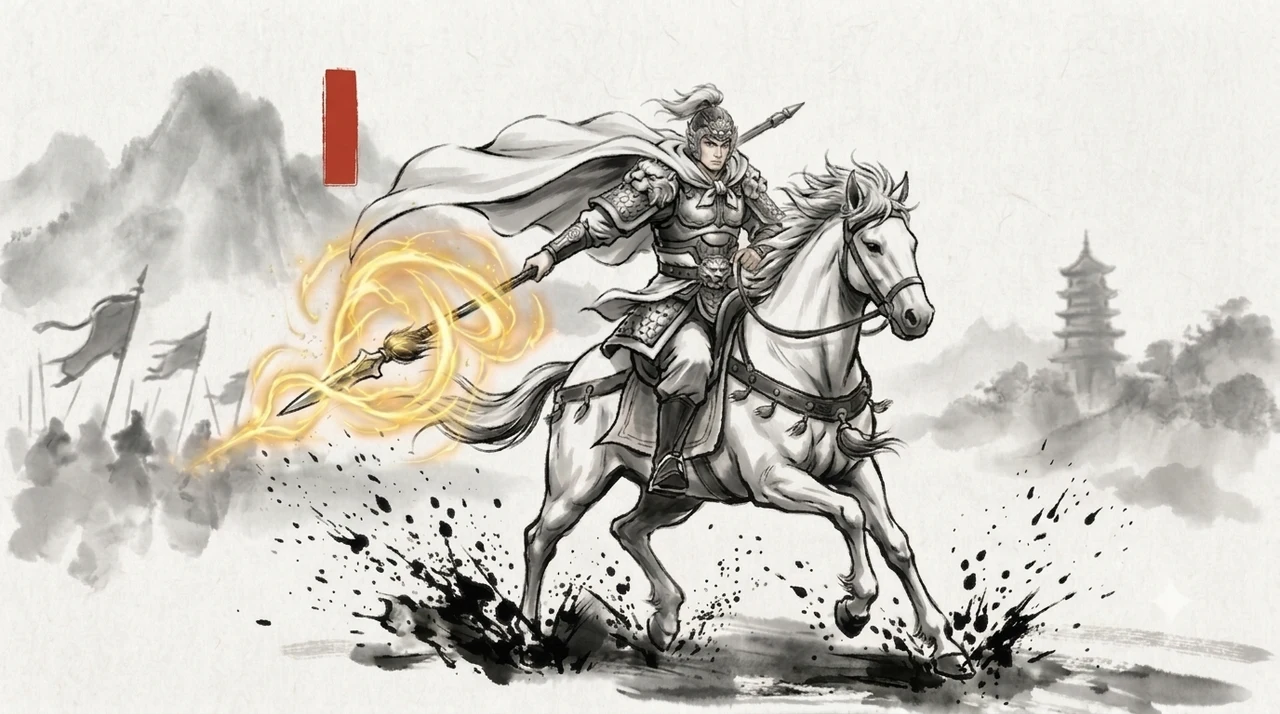
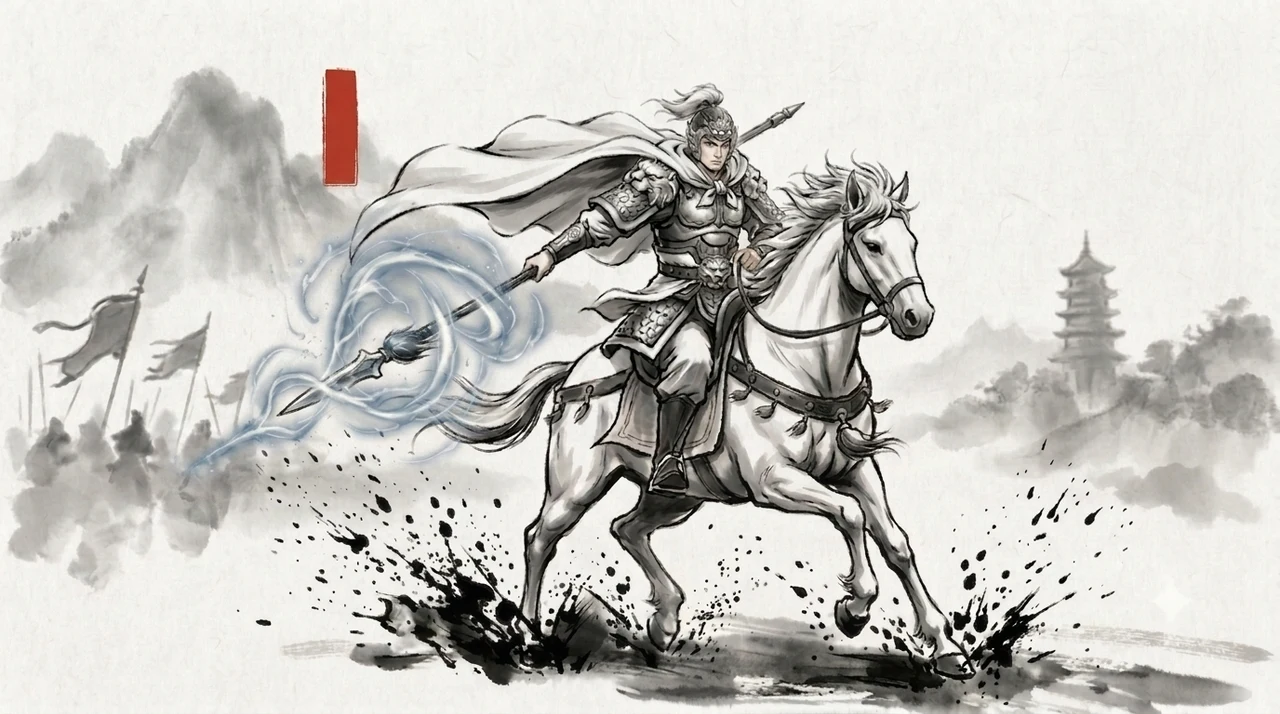
fix(art): Ma Sieu doi accent tu vang kim sang bac lam
Anh goc dung vang kim, trong khi art-manifest.ts chot MA_SIEU la SILVER_BLUE.
Sai accent khong sua duoc bang hau ky nen phai sinh lai qua Gemini image
editing, giu nguyen ky si, ngua, tu the, bo cuc va net muc, chi doi mau nang
luong quanh ngon thuong.

Da mo anh ra kiem tra bang mat: khong co ky tu chu Han, con dau van la o chu
sa truu tuong khong chu.

Het viec no ve mau accent — ca 16 anh trong manifest gio deu dung accent da
chot.

Changed region(s): [[0.125, 0.3081, 0.4375, 0.6779], [0.5312, 0.8627, 0.5625, 0.8936]]

diff --git a/docs/ART-ASSET-REGISTER.md b/docs/ART-ASSET-REGISTER.md
@@ -33,11 +33,11 @@ bị loại ở vòng duyệt đầu và đã sinh lại: cửa 2 có ký tự c
 cửa 4 vẽ nhầm cổng torii Nhật Bản thay vì cổng thành Trung Hoa. Bản thay thế
 đã kiểm tra lại bằng mắt.
 
-### Một việc còn nợ
+### Không còn việc nợ
 
-| Việc | Lý do |
-|---|---|
-| Mã Siêu sai accent | Ảnh gốc dùng vàng kim, manifest chốt **bạc lam**. Cần sinh lại; hiện tạm dùng vì bố cục và chất lượng vẫn đạt |
+Trương Phi và Mã Siêu đều đã có bản đúng accent. Cả hai ảnh gốc dùng vàng kim
+trong khi manifest chốt chu sa và bạc lam; bản thay thế giữ nguyên bố cục,
+nhân vật và nét mực, chỉ đổi màu năng lượng.
 
 ## Quy tắc bắt buộc
 
@@ -73,7 +73,7 @@ cửa 4 vẽ nhầm cổng torii Nhật Bản thay vì cổng thành Trung Hoa. 
 | `generalTruongPhi` | `art/generals/truong-phi.webp` | Chu sa | Trương Phi | chủ dự án | 04/08/2026 | 2 |
 | `generalQuanVu` | `art/generals/quan-vu.webp` | Lục ngọc | Quan Vũ | chủ dự án | 04/08/2026 | 1 |
 | `generalHoangTrung` | `art/generals/hoang-trung.webp` | Kim đồng | Hoàng Trung | chủ dự án | 04/08/2026 | 1 |
-| `generalMaSieu` | `art/generals/ma-sieu.webp` | ⚠ vàng kim, phải là bạc lam | Mã Siêu | tạm dùng | 04/08/2026 | 1 |
+| `generalMaSieu` | `art/generals/ma-sieu.webp` | Bạc lam | Mã Siêu | chủ dự án | 05/08/2026 | 2 |
 | `generalLuBo` | `art/generals/lu-bo.webp` | Hỏa cam | Lữ Bố | chủ dự án | 04/08/2026 | 1 |
 | `trialDaoVien` | `art/trials/trial-01-dao-vien.webp` | Chu sa | Trương Phi, Quan Vũ | sinh mới | 04/08/2026 | 1 |
 | `trialHoangCan` | `art/trials/trial-02-hoang-can.webp` | Kim đồng | Trương Phi | sinh lại lần 2 | 04/08/2026 | 2 |
